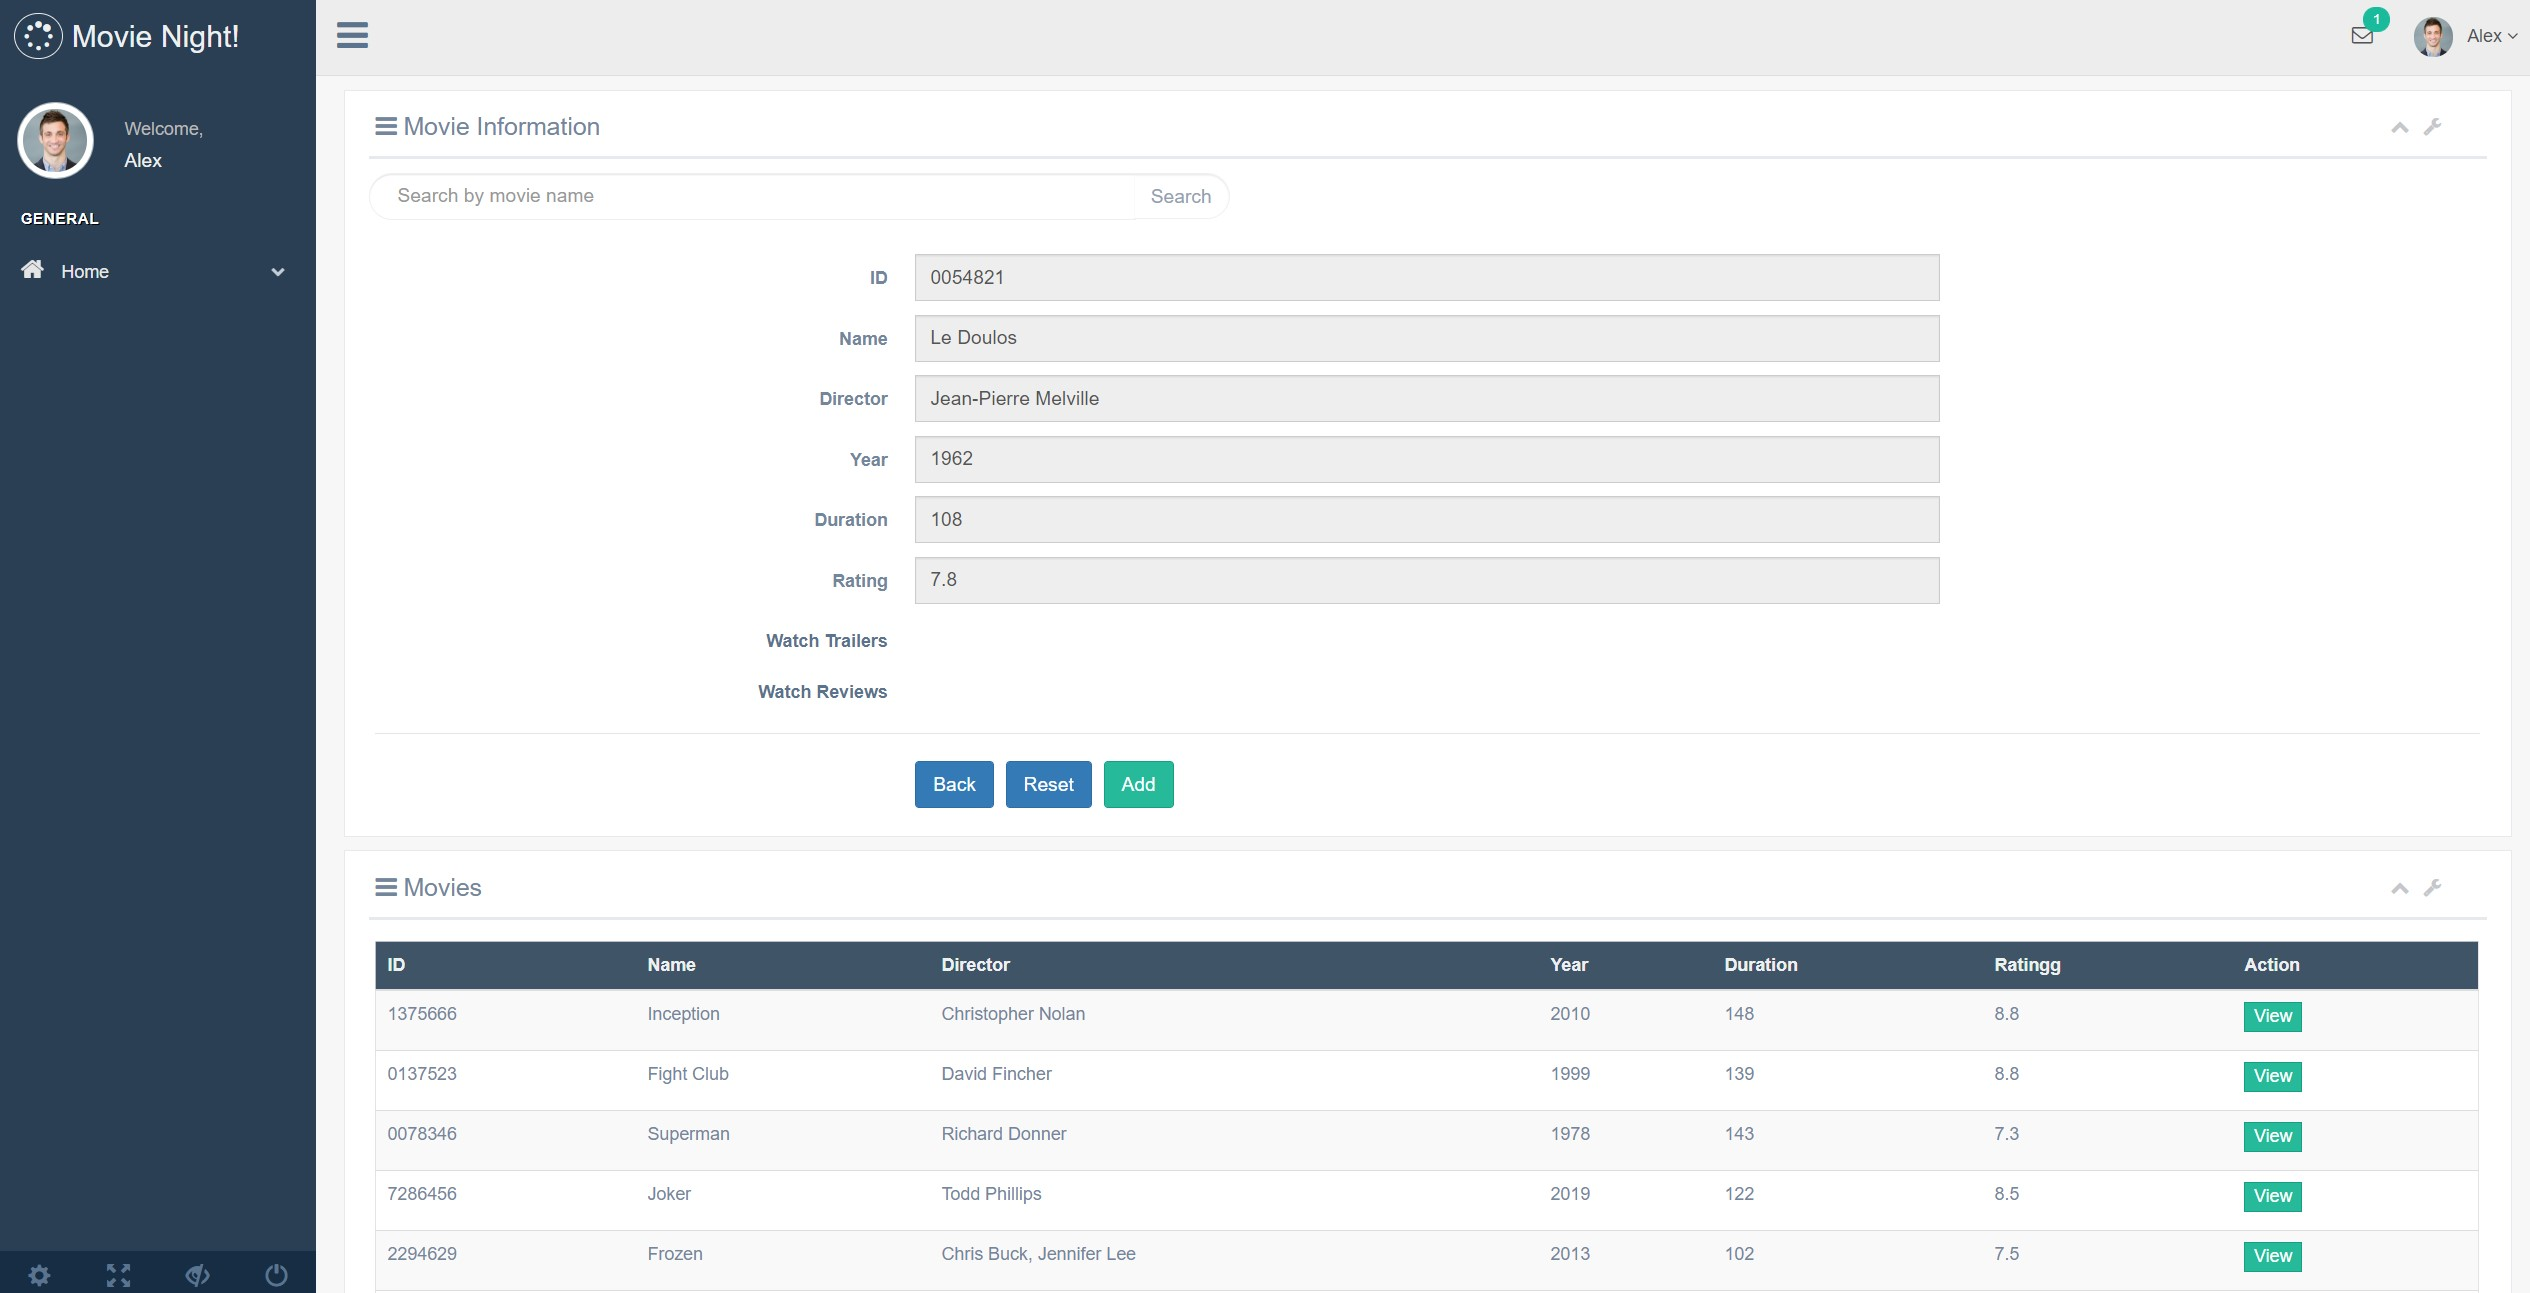
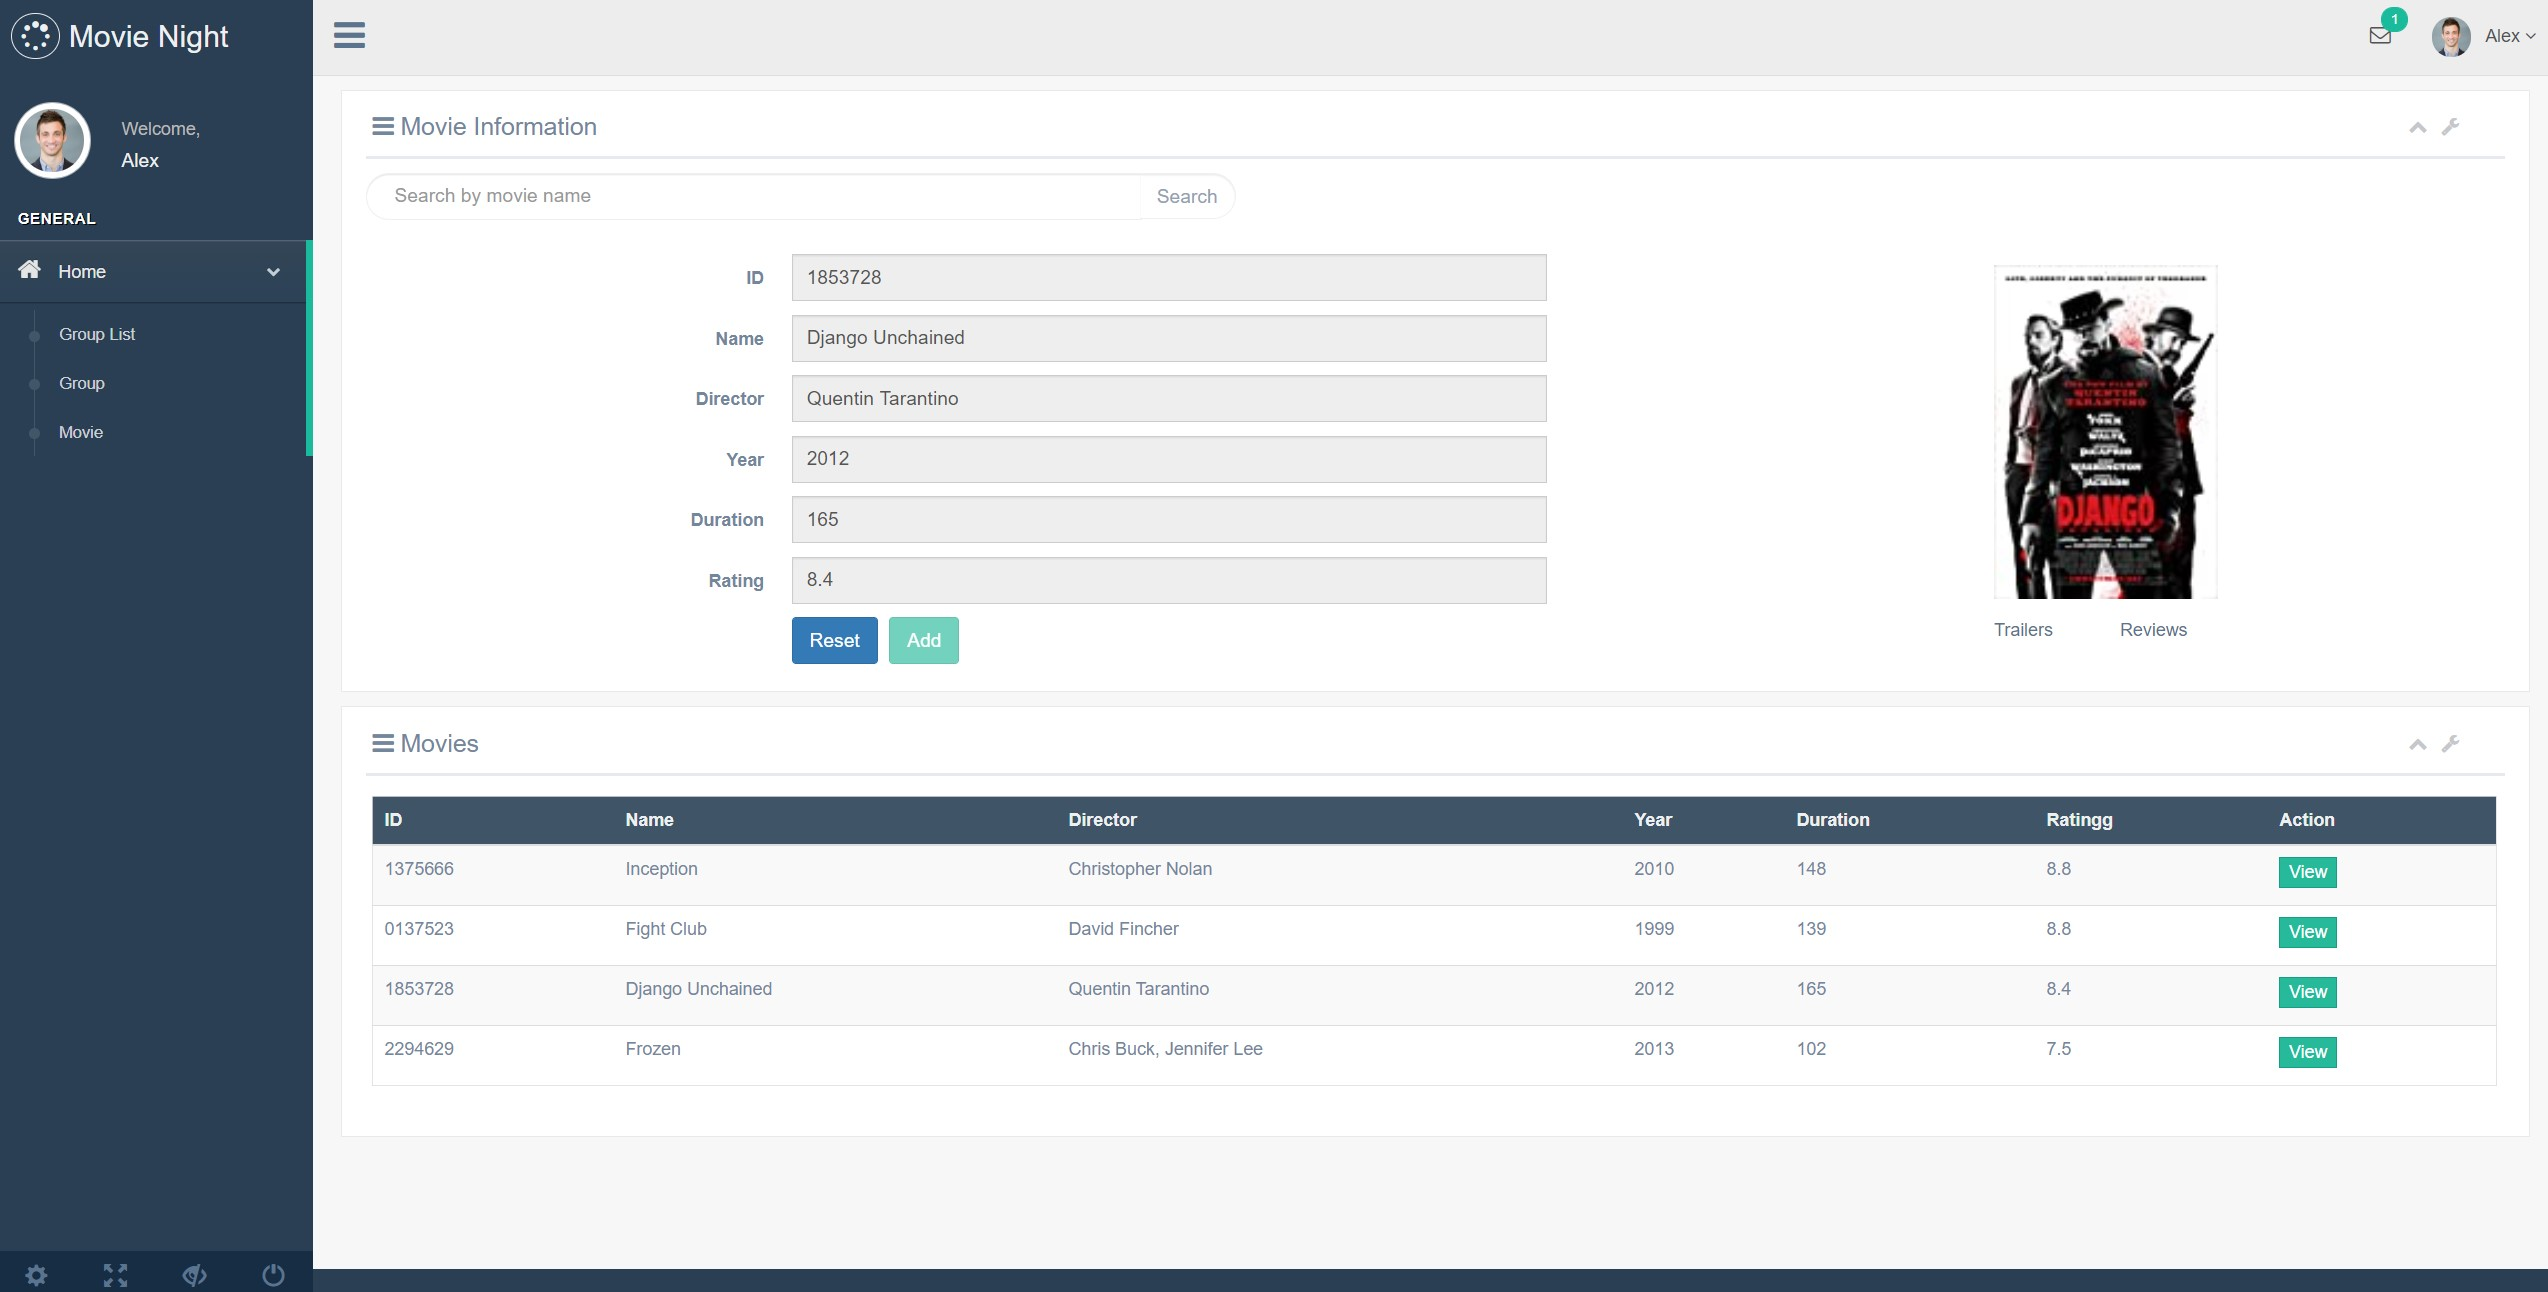
add movie poster

diff --git a/app/templates/main/movie_info.html b/app/templates/main/movie_info.html
@@ -43,12 +43,12 @@
             <div class="x_content">
                 <form id="add_movie" action="/add_movie/" method="get" data-parsley-validate class="form-horizontal form-label-left">
                     {% csrf_token %}
-                    
+                <div class="col-md-9 col-sm-9 col-xs-12">
                   <div class="form-group">
                     <label class="control-label col-md-3 col-sm-3 col-xs-12">ID </label>
                     <div class="col-md-6 col-sm-6 col-xs-12">
                         <input type="text" name="m_id" readonly="readonly" value="{{movie.m_id}}" class="form-control col-md-7 col-xs-12">
-                      </div>
+                    </div>
                   </div>
                   <div class="form-group">
                     <label class="control-label col-md-3 col-sm-3 col-xs-12">Name</label>
@@ -80,22 +80,24 @@
                         <input type="text" name="rating" readonly="readonly" value="{{movie.rating}}" class="form-control col-md-7 col-xs-12">
                       </div>
                   </div>
-                  <div class="form-group">
-                    <a href="{{movie.trailer}}"><label class="control-label col-md-3 col-sm-3 col-xs-12">Watch Trailers</label></a>
-                  </div>
-                  <div class="form-group">
-                    <a href="{{movie.review}}"><label class="control-label col-md-3 col-sm-3 col-xs-12">Watch Reviews</label></a>
-                  </div>
-                  
+                </div>
 
-                    <div class="ln_solid"></div>
-                    <div class="form-group">
+                <div class="col-md-3 col-sm-3 col-xs-12">
+                    <img class="control-label col-md-6 col-sm-6 col-xs-12" src="{{movie.cover}}">
+                    <input type="text" name="cover" value="{{movie.cover}}" hidden>                    
+                </div>
+                  
+                  <div class="clearfix"></div>
+                  <div class="form-group col-md-9 col-sm-9 col-xs-12">
                       <div class="col-md-6 col-sm-6 col-xs-12 col-md-offset-3">
-                        <button class="btn btn-primary" type="button" onclick="javascript:history.back(-1);">Back</button>
-                        <button class="btn btn-primary" id="reset" type="reset">Reset</button>
-                        <button class="btn btn-success" id="add" type="submit">Add</button>
+                        <button class="btn btn-primary" type="reset" onclick="window.location='/movie_info/'">Reset</button>
+                        <button class="btn btn-success" id="add" type="submit" disabled="true">Add</button>
                       </div>
-                    </div>
+                  </div>
+                  <div class="form-group col-md-3 col-sm-3 col-xs-12">
+                    <a href="{{movie.trailer}}" class="col-md-3 col-sm-3 col-xs-12">Trailers</a>
+                    <a href="{{movie.review}}" class="col-md-3 col-sm-3 col-xs-12">Reviews</a>
+                  </div>
                 </form>
             </div>
             </div>
@@ -173,10 +175,7 @@
   <script>
     function hasrecorded(record) {
       if(record=="True")
-      {
-        document.getElementById("add").disabled=true;
-        document.getElementById("reset").disabled=true;
-      }     
+        document.getElementById("add").disabled=false;    
     }
     window.onload= hasrecorded('{{record}}')
     </script>

diff --git a/app/views.py b/app/views.py
@@ -12,10 +12,10 @@ def index(request):
 def search_movie(request):
     if request.method=="GET":
         title= request.GET.get('movie_name')
-        if models.Movie.objects.filter(name=title).exists():
-            m1= models.Movie.objects.get(name=title)
+        if models.Movie.objects.filter(name__icontains=title).exists():
+            m1= models.Movie.objects.filter(name__icontains =title)[0]
             return render(request, 'main/movie_info.html',
-            {'movie':m1, 'movie_list':models.Movie.objects.all(), 'record':True})
+            {'movie':m1, 'movie_list':models.Movie.objects.all()})
         else:
             moviesDB= imdb.IMDb()
             movies= moviesDB.search_movie(title)
@@ -27,39 +27,38 @@ def search_movie(request):
             m1.year=  movie.get('year',None)
             m1.rating= movie.get('rating',None)
             m1.duration= movie.get('runtimes',None)
-            if m1.duration:
+            m1.cover=movie.get('cover url',None)
+            if movie.get('runtimes',None):
                 m1.duration= m1.duration[0]
-            m1.director= ', '.join(map(str,movie['directors'])) 
+            if movie.get('directors',None):
+                m1.director= ', '.join(map(str,movie['directors'])) 
             m1.trailer= 'https://www.imdb.com/title/tt'+m_id+'/videogallery/content_type-trailer/'
             m1.review= 'https://www.imdb.com/title/tt'+m_id+'/reviews/'
-
             return render(request, 'main/movie_info.html',
-            {'movie':m1, 'movie_list':models.Movie.objects.all(),  
-            'record': models.Movie.objects.filter(name=m1.name).exists()})
+            {'movie':m1, 'movie_list':models.Movie.objects.all(), 'record': not models.Movie.objects.filter(name=m1.name).exists()})
 
 def view_movie(request):
     if request.method=="GET":
         m1= models.Movie.objects.get(m_id=request.GET.get('m_id'))
         return render(request, 'main/movie_info.html',
-        {'movie':m1, 'movie_list':models.Movie.objects.all(), 'record':True})
+        {'movie':m1, 'movie_list':models.Movie.objects.all()})
   
 def add_movie(request):
     if request.method=="GET":
         m_id=request.GET.get('m_id',None)
         name=request.GET.get('title',None)
-        director=request.GET.get('director',None)
-        year=request.GET.get('year',None)
-        duration=request.GET.get('duration',None)
-        rating=request.GET.get('rating',None)
-        trailer= 'https://www.imdb.com/title/tt'+m_id+'/videogallery/content_type-trailer/'
-        review= 'https://www.imdb.com/title/tt'+m_id+'/reviews/'
-
-        m1= models.Movie(m_id=m_id, name=name, director=director,
-        year=year, duration=duration, rating=rating, trailer=trailer, review=review)
+        m1= models.Movie(m_id=m_id, name=name)
+        m1.director=request.GET.get('director',None)
+        m1.year=request.GET.get('year',None)
+        m1.duration=request.GET.get('duration',None)
+        m1.rating=request.GET.get('rating',None)
+        m1.trailer= 'https://www.imdb.com/title/tt'+m_id+'/videogallery/content_type-trailer/'
+        m1.review= 'https://www.imdb.com/title/tt'+m_id+'/reviews/'
+        m1.cover= request.GET.get('cover',None)
         m1.save()
 
         return render(request, 'main/movie_info.html',
-        {'movie':m1, 'movie_list':models.Movie.objects.all(), 'record':True})
+        {'movie':m1, 'movie_list':models.Movie.objects.all()})
 
 def movie_info(request):
     if request.method=="GET":    

diff --git a/app/migrations/0001_initial.py b/app/migrations/0001_initial.py
@@ -1,4 +1,4 @@
-# Generated by Django 3.0.3 on 2020-04-14 05:00
+# Generated by Django 3.0.3 on 2020-04-18 20:20
 
 from django.db import migrations, models
 import django.db.models.deletion
@@ -48,6 +48,13 @@ class Migration(migrations.Migration):
             fields=[
                 ('m_id', models.CharField(max_length=32, primary_key=True, serialize=False)),
                 ('name', models.CharField(max_length=64)),
+                ('director', models.CharField(blank=True, max_length=64, null=True)),
+                ('year', models.CharField(blank=True, max_length=4, null=True)),
+                ('rating', models.CharField(blank=True, max_length=4, null=True)),
+                ('duration', models.CharField(blank=True, max_length=4, null=True)),
+                ('trailer', models.CharField(blank=True, max_length=128, null=True)),
+                ('review', models.CharField(blank=True, max_length=128, null=True)),
+                ('cover', models.URLField(blank=True, null=True)),
             ],
         ),
         migrations.CreateModel(
@@ -117,7 +124,7 @@ class Migration(migrations.Migration):
         migrations.AddField(
             model_name='event',
             name='movie',
-            field=models.ForeignKey(on_delete=django.db.models.deletion.CASCADE, to='app.Movie'),
+            field=models.ForeignKey(null=True, on_delete=django.db.models.deletion.CASCADE, to='app.Movie'),
         ),
         migrations.AlterUniqueTogether(
             name='membership',

diff --git a/app/models.py b/app/models.py
@@ -6,12 +6,13 @@ from django.db import models
 class Movie(models.Model):
     m_id= models.CharField(primary_key=True,max_length=32)
     name= models.CharField(max_length=64)
-    director= models.CharField(max_length=64,default="")
-    year= models.CharField(max_length=4,default="")
-    rating= models.CharField(max_length=4,default="")
-    duration= models.IntegerField(default=0)
-    trailer= models.CharField(max_length=128,default="")
-    review= models.CharField(max_length=128,default="")
+    director= models.CharField(max_length=64,null=True, blank=True)
+    year= models.CharField(max_length=4,null=True, blank=True)
+    rating= models.CharField(max_length=4,null=True, blank=True)
+    duration= models.CharField(max_length=4,null=True, blank=True)
+    trailer= models.CharField(max_length=128,null=True, blank=True)
+    review= models.CharField(max_length=128,null=True, blank=True)
+    cover= models.URLField(null=True, blank=True)
 
     def __str__(self):
         return self.name 

diff --git a/use_cases.md b/use_cases.md
@@ -47,17 +47,17 @@
 
 ##  Use Case Diagrams 
 +   User   
-![user](Diagrams/User.jpeg)
+![user](diagrams/User.jpeg)
 +   Group Member   
-![groupmember](Diagrams/Member.jpeg)
+![groupmember](diagrams/Member.jpeg)
 +   Moderator   
-![moderator](Diagrams/Moderator.jpeg)
+![moderator](diagrams/Moderator.jpeg)
 ##  Class Diagram
-![class](Diagrams/Class_Diagram.jpeg)
+![class](diagrams/Class_Diagram.jpeg)
 ##  Class Packages 
-![class](Diagrams/packages.jpeg)
+![class](diagrams/packages.jpeg)
 ##  Traceability Matrix 
-![matrix](Diagrams/Tmatrix.jpg)
+![matrix](diagrams/Tmatrix.jpg)
 
 |   Index   |       Features    |
 |-----------|-------------------|
